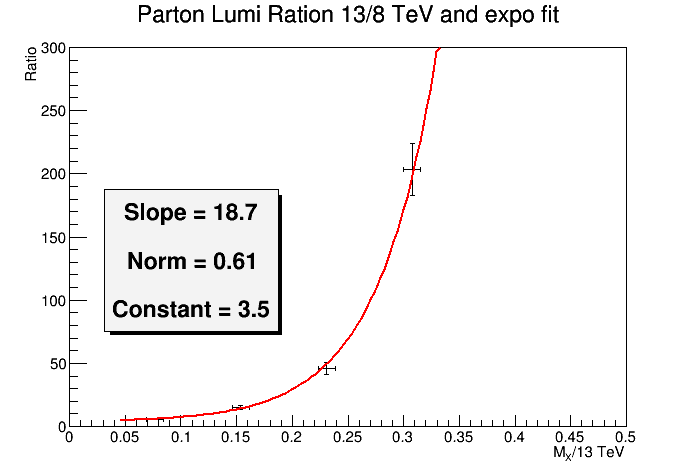
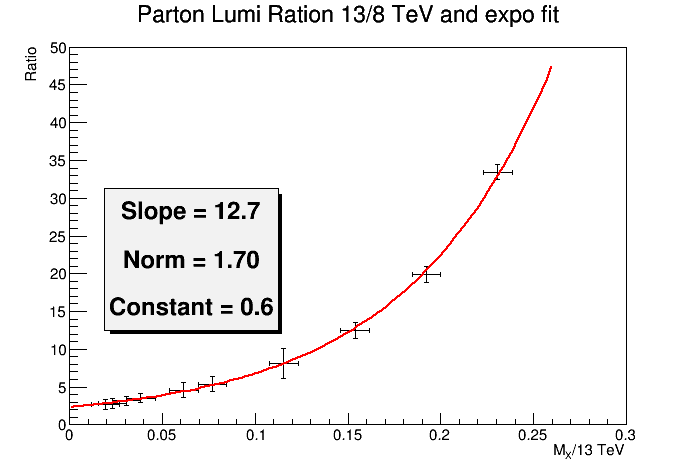
Updated

diff --git a/BumpSearchLimitCode/ggLumi.C b/BumpSearchLimitCode/ggLumi.C
@@ -7,18 +7,40 @@
   luminosity->SetParameter(1, 1);
   luminosity->SetParameter(2, 2);
 
+  /*
+250.00 	2,6943005181 	0,3480090158
+300.00 	2,8522067364 	0,3383104126
+400.00 	3,1604118233 	0,3011
+500.00 	3,4880860876 	0,2642160845
+800.00 	4,5598537923 	0,1539387309
+1000.00 	5,3960612691 	0,1364179104
+1500.00 	8,1397260274 	0,0972468917
+2000.00 	12,4812895797 	0,0659453303
+2500.00 	19,897045658 	0,0423507109
+3000.00 	33,4160305344 	0,0254863813
+  */
 
+  Double_t x[10], y[10],  x_err[10],  y_err[10];
+  x[0] = 250/13000.;  x[1] = 300/13000.;   x[2] = 400/13000.; x[3] = 500/13000.;   
+  x[4] = 800/13000.;  x[5] = 1000/13000.;   x[6] = 1500/13000.; x[7] = 2000/13000.;   
+  x[8] = 2500/13000.;  x[9] = 3000/13000.;
 
-  Double_t x[4], y[4],  x_err[4],  y_err[4];
-  x[0] = 1000/13000.;  x[1] = 2000/13000.;   x[2] = 3000/13000.; x[3] = 4000/13000.;   
   x_err[0] = 100/13000.;  x_err[1] = 100/13000.;   x_err[2] = 100/13000.; x_err[3] = 100/13000.;   
-  y[0] = 6;  y[1] = 15;   y[2] = 46; y[3] = 203.4;   
-  y_err[0] = 0.6;  y_err[1] = 1.5;   y_err[2] = 4.6; y_err[3] = 20.3;     
+  x_err[4] = 100/13000.;  x_err[5] = 100/13000.;   x_err[6] = 100/13000.; x_err[7] = 100/13000.;   
+  x_err[8] = 100/13000.;  x_err[9] = 100/13000.; 
 
-  TGraphErrors* gLumi = new TGraphErrors(4, x, y,  x_err,  y_err);
-  TH1D* PLOTTER = new TH1D("PLOTTER", "Parton Lumi Ration 13/8 TeV and expo fit; M_{X}/13 TeV;  Ratio;", 1, 0, 0.5);
+  y[0] = 2.69;  y[1] = 2.82;   y[2] = 3.16; y[3] = 3.49;   
+  y[4] = 4.56;  y[5] = 5.40;   y[6] = 8.14; y[7] = 12.48;   
+  y[8] = 19.90;  y[9] = 33.42; 
+
+  y_err[0] = 0.6;  y_err[1] = 0.6;   y_err[2] = 0.6; y_err[3] = 0.6;     
+  y_err[4] = 1.0;  y_err[5] = 1.0;   y_err[6] = 2.0; y_err[7] = 1.0;     
+  y_err[8] = 1.0;  y_err[9] = 1.0; 
+
+  TGraphErrors* gLumi = new TGraphErrors(10, x, y,  x_err,  y_err);
+  TH1D* PLOTTER = new TH1D("PLOTTER", "Parton Lumi Ration 13/8 TeV and expo fit; M_{X}/13 TeV;  Ratio;", 1, 0, 0.30);
   PLOTTER->SetMinimum(0);
-  PLOTTER->SetMaximum(300);
+  PLOTTER->SetMaximum(50);
 
   PLOTTER->SetStats(0);
 
@@ -31,6 +53,8 @@
    pt->AddText(Form("Norm = %.2f", luminosity->GetParameter(1)));
    pt->AddText(Form("Constant = %.1f", luminosity->GetParameter(2)));
 
+   cout << "at 0.25 TeV = " << luminosity->Eval(250./13000) << endl;
+   cout << "at 0.5 TeV = " << luminosity->Eval(500./13000) << endl;
    cout << "at 1.2 TeV = " << luminosity->Eval(1200./13000) << endl;
    cout << "at 1.4 TeV = " << luminosity->Eval(1400./13000) << endl;
    cout << "at 1.6 TeV = " << luminosity->Eval(1600./13000) << endl;
@@ -45,10 +69,43 @@
    cout << "2000 " << luminosity->Eval(2000./13000)*0.135*9 << endl;
    cout << "2500 " << luminosity->Eval(2500./13000)*0.0286*9 << endl;
 
-
    pt->Draw();
 
   c1->SaveAs("ggLumiRatio_8_13TeV.png");
   c1->SaveAs("ggLumiRatio_8_13TeV.pdf");
+
+  FILE *fp = fopen("radion.txt","r");
+  FILE *fp_bfhh = fopen("radion_to_hh.txt","r");
+  ntuple = new TNtuple("ntuple","NTUPLE","x:y"); 
+  float x0,y0,z0;
+  char line[127], line_bfhh[127];
+
+  ofstream myfile;
+  myfile.open("Radion_13TeV_HH_finalstate.txt");
+  myfile << "Mass (GeV)\tRadion->HH at 13 TeV\n";
+
+  
+  int counter = 0;
+  while (fgets(&line,127,fp) && fgets(&line_bfhh,127,fp_bfhh)) {
+    counter++;
+    cout << "counter " << counter << endl; 
+
+    sscanf(&line[0],"%f %f",&x0,&y0);
+    sscanf(&line_bfhh[0],"%f %f",&x0,&z0);
+
+    double lumiRatio =  luminosity->Eval(x0/13000.);
+
+    cout << "luminosity->Eval(x0/13000.) " << lumiRatio << endl; 
+
+    printf("x0=%f, y0=%f, z0=%f lumi=%f\n",x0,y0,z0,lumiRatio);
+    ntuple->Fill(x0,y0*z0*lumiRatio);
+    myfile << x0 << "\t" << y0*z0*lumiRatio << "\n";
+
+  }
+  cout<<ntuple.GetNvar()<<" "<<ntuple.GetVar1()<<ntuple.GetVar2()<<endl;
+
+
+  myfile.close();
+
 
 }
